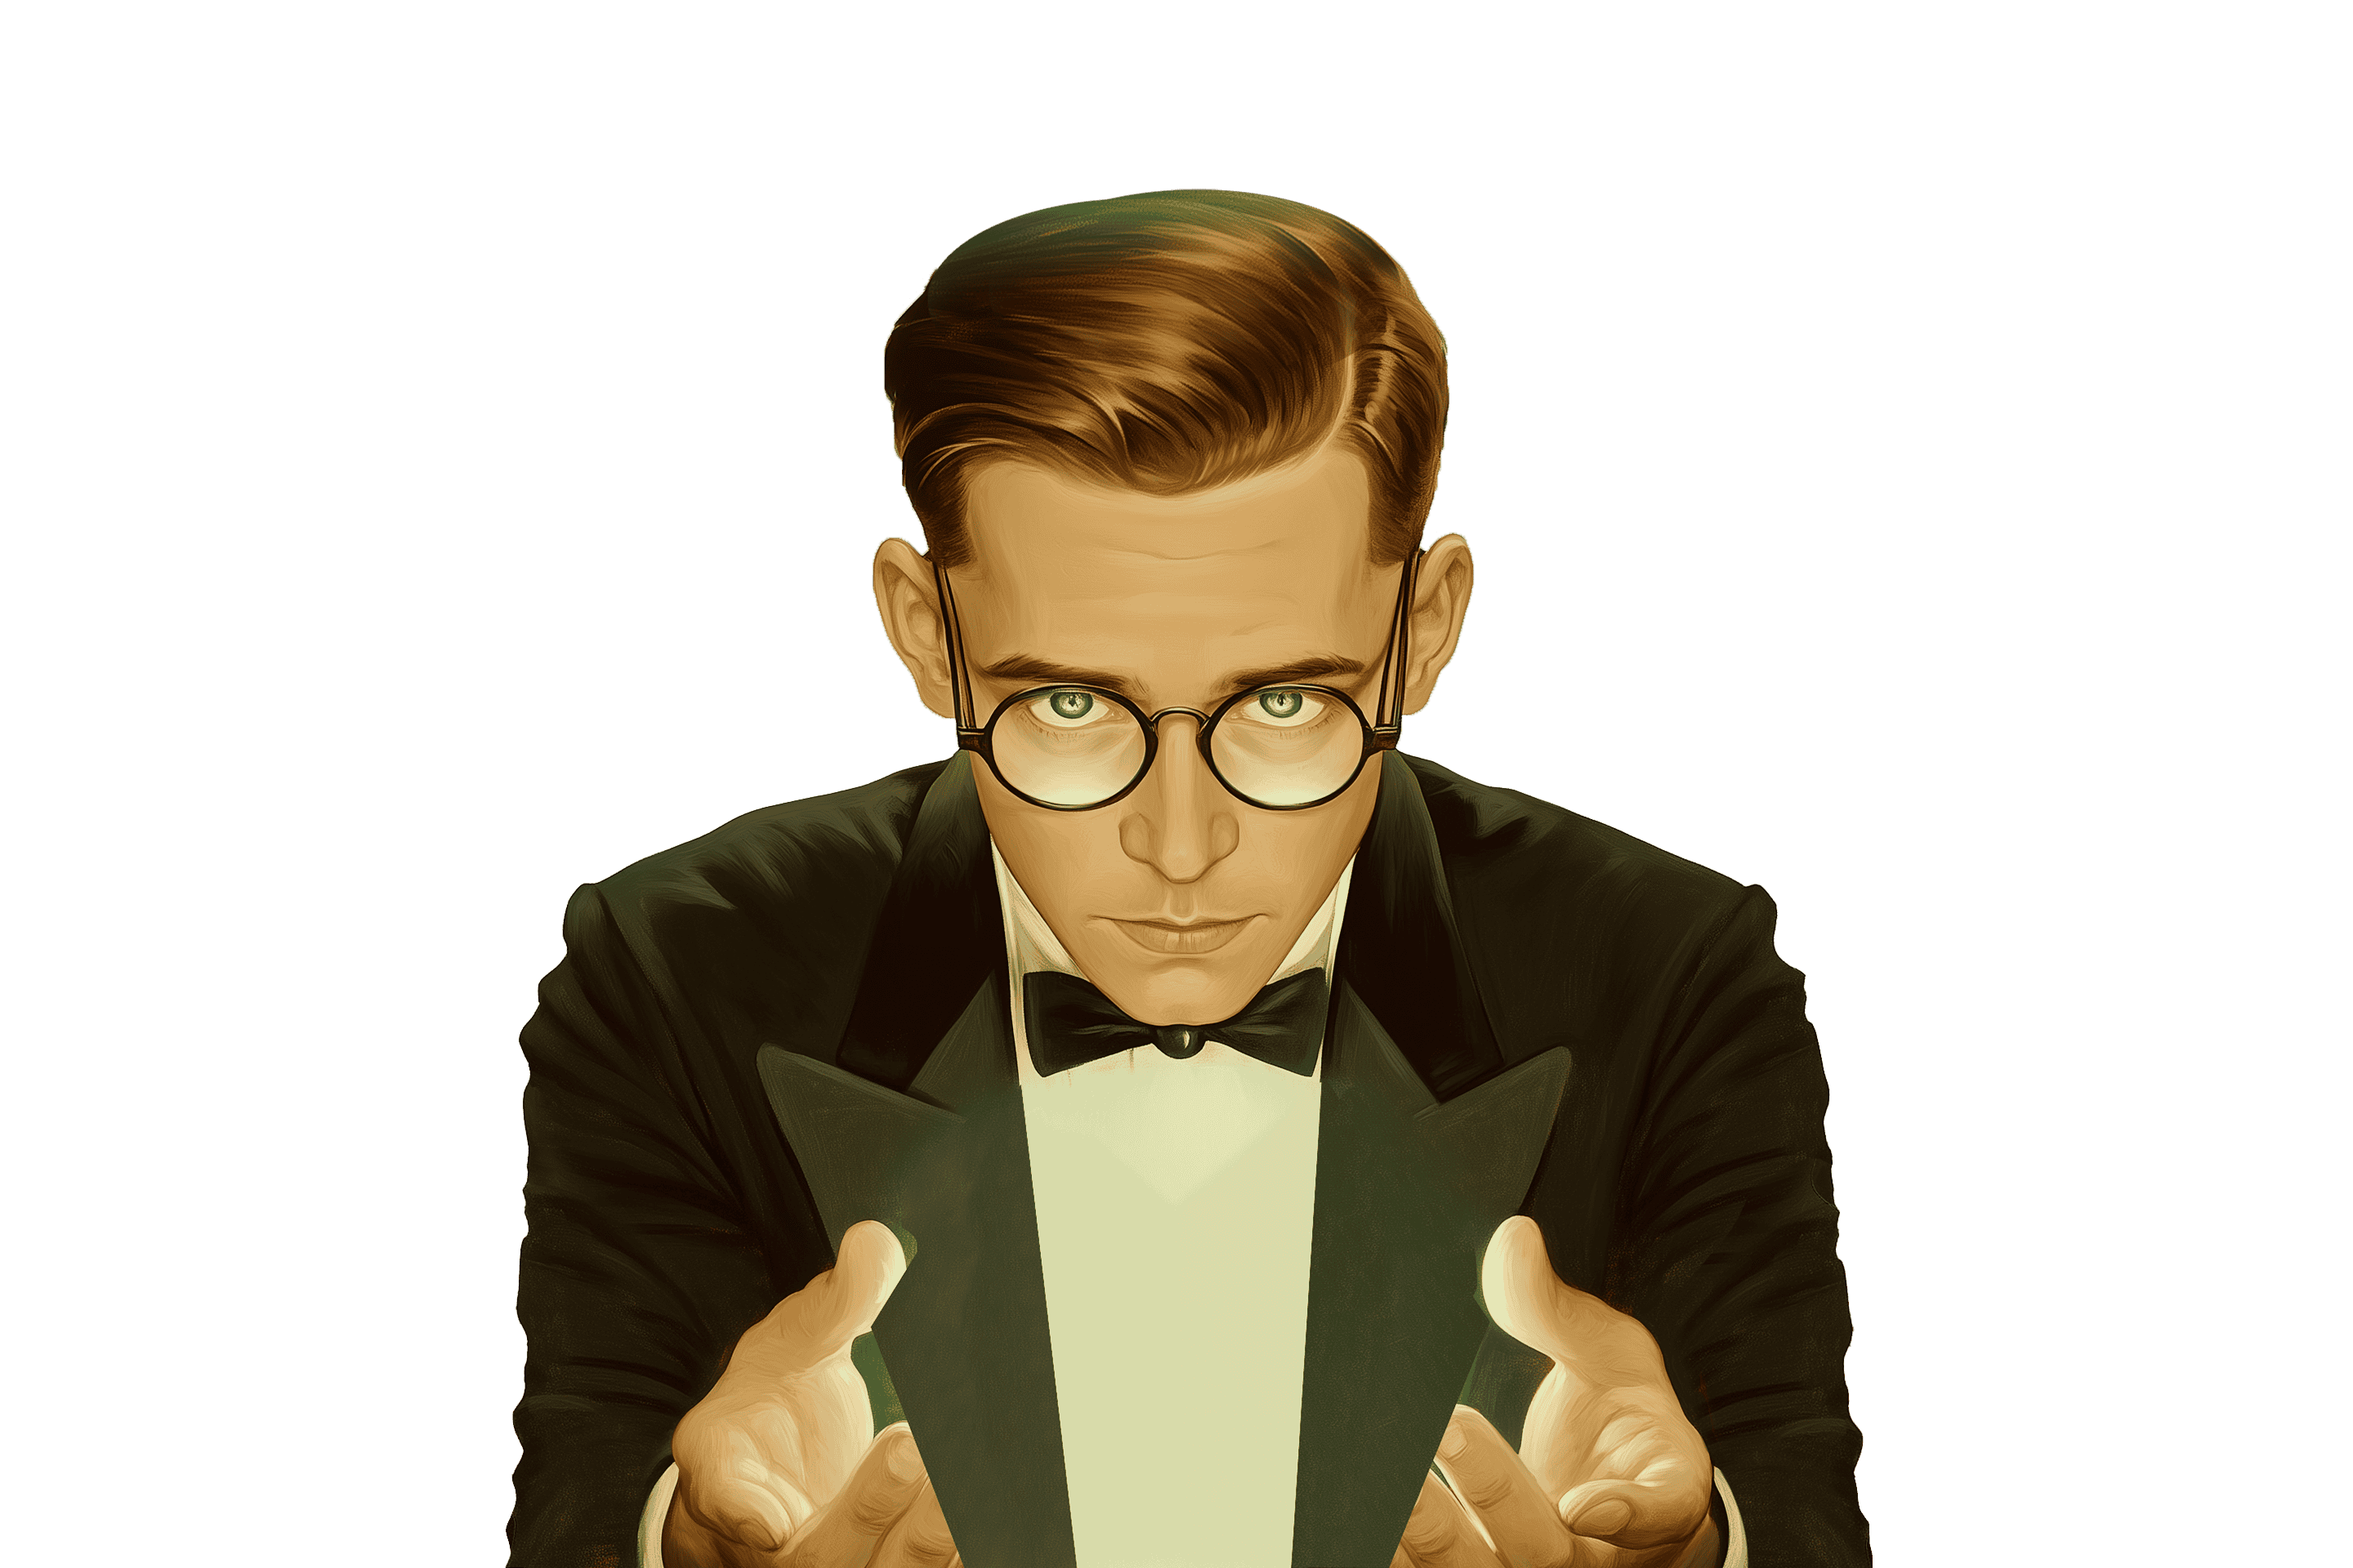
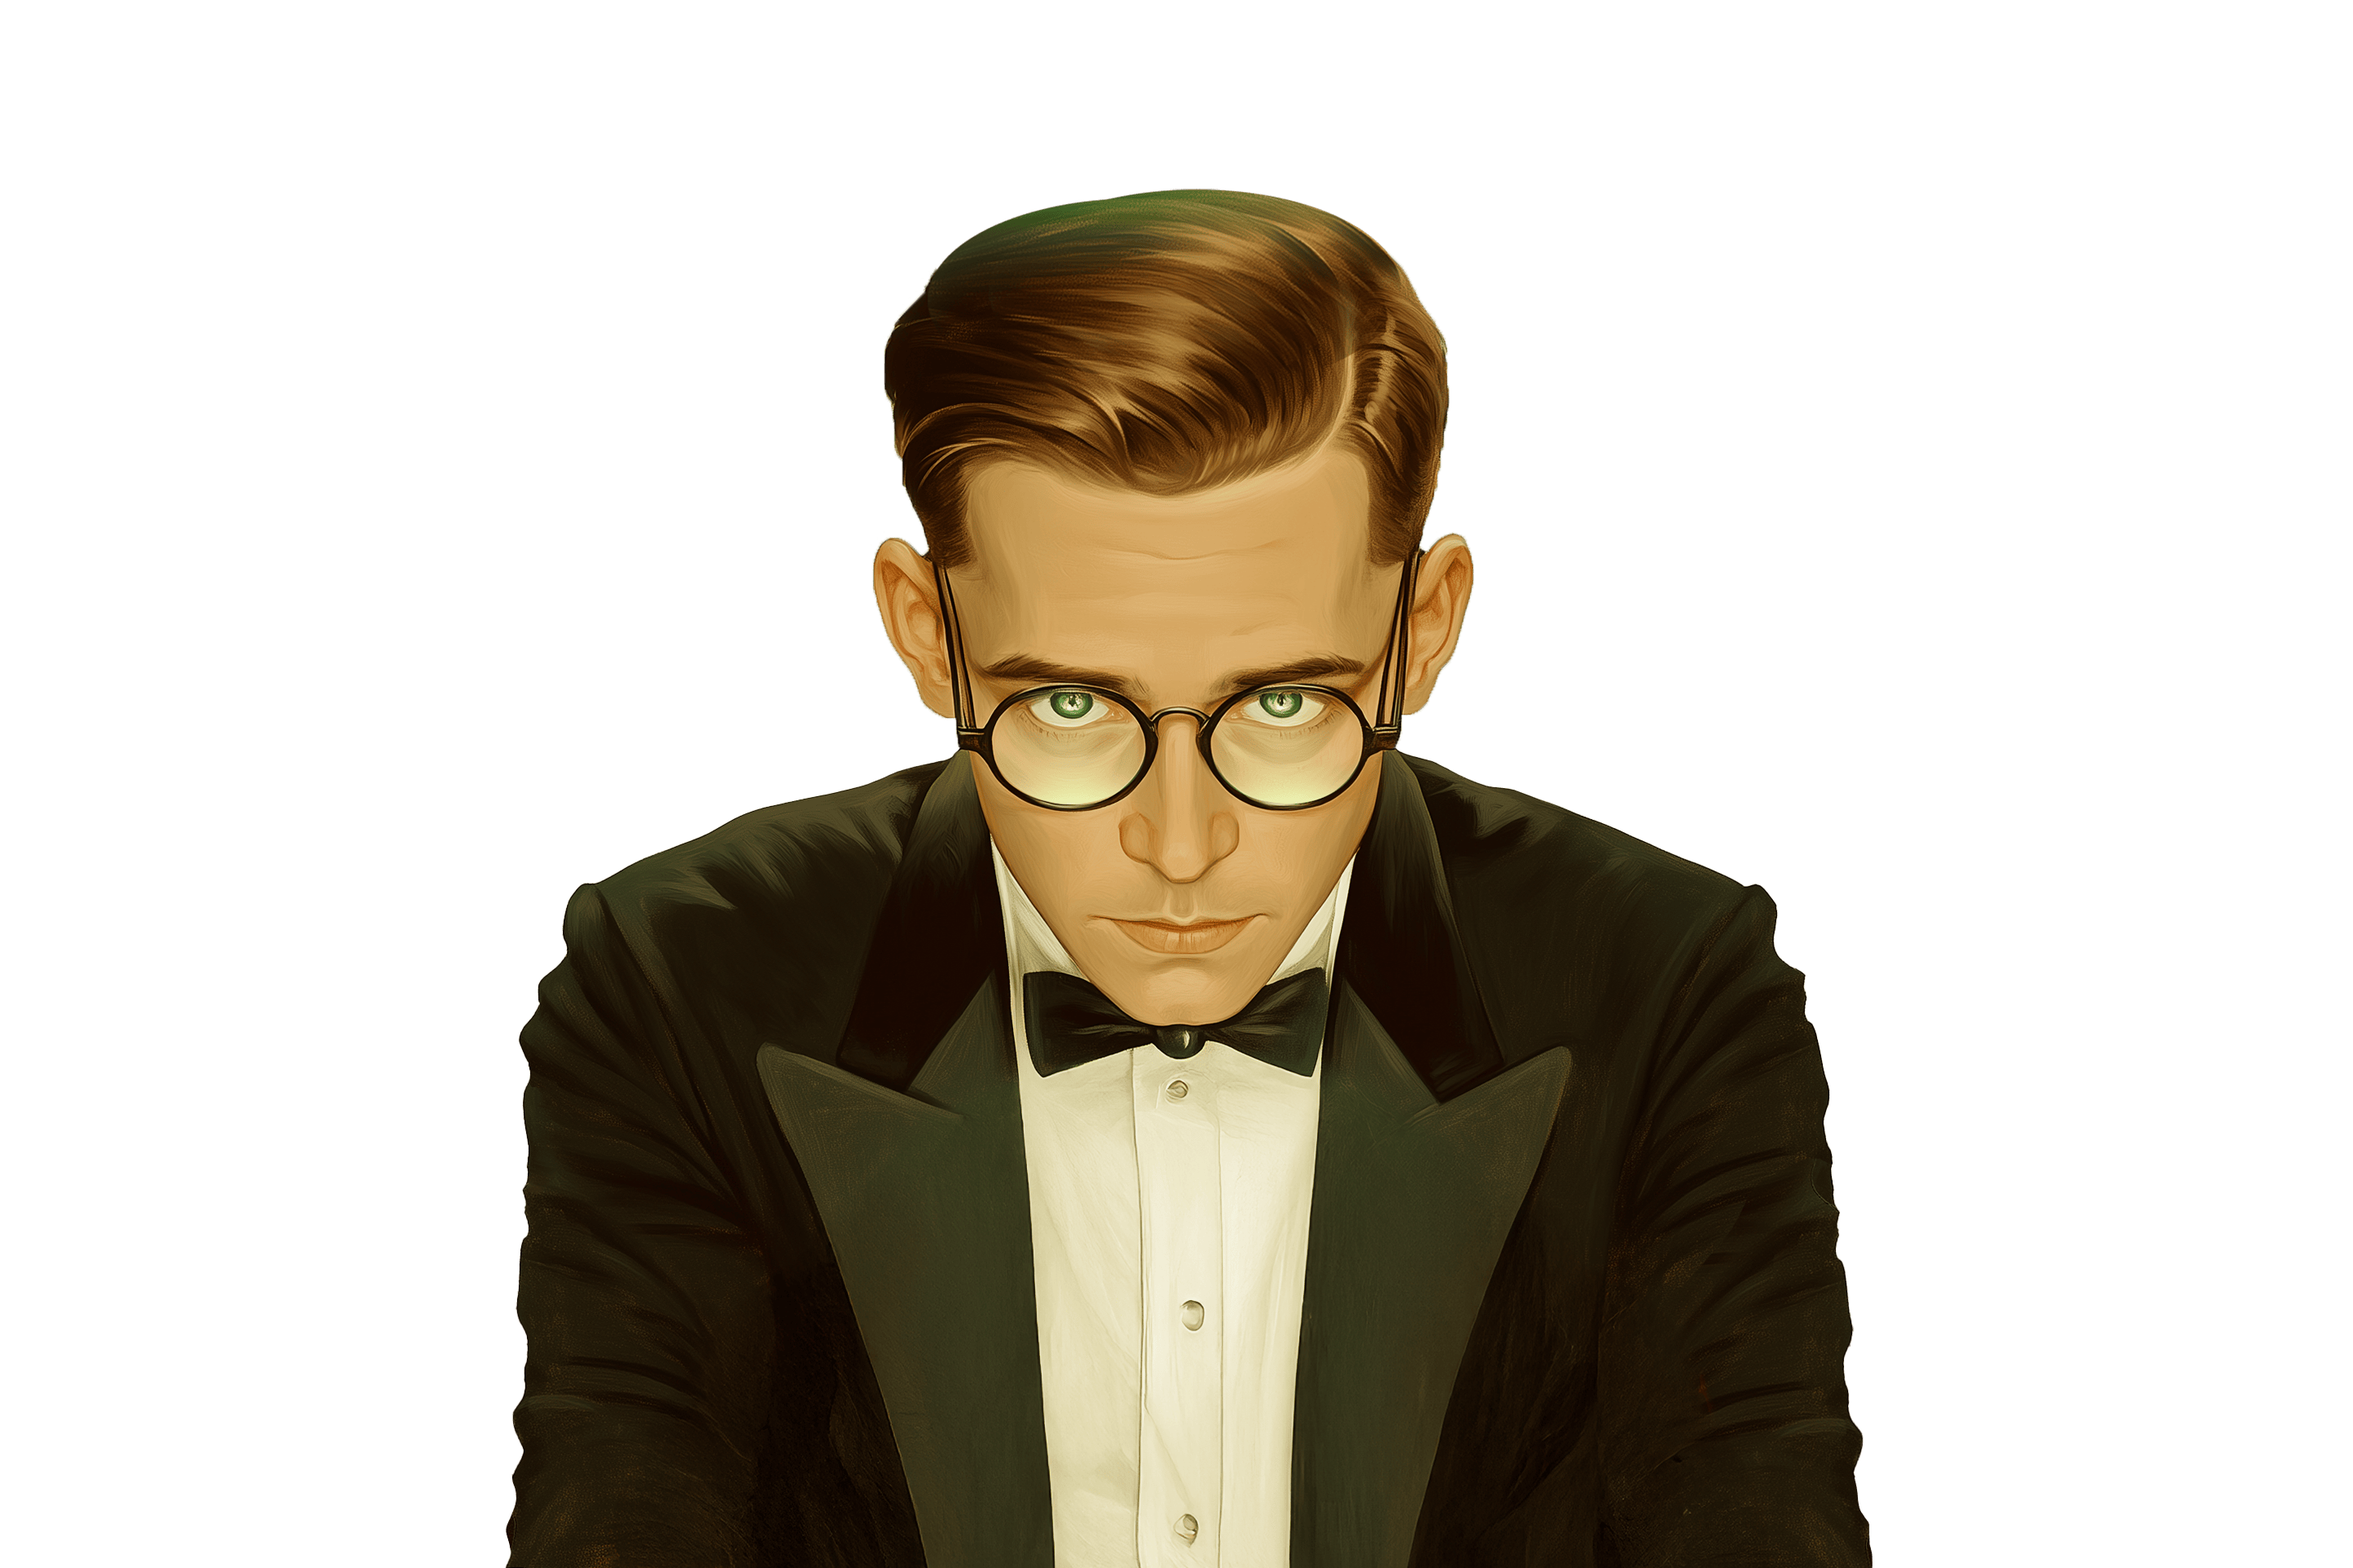
Added Hypnosis and new benzo image

Changed region(s): [[0.25, 0.6875, 0.5625, 1.0], [0.5938, 0.7812, 0.75, 1.0], [0.4688, 0.125, 0.5625, 0.1562]]

diff --git a/src/components/sections/Hero/Benzo/components/Hypnosis.jsx b/src/components/sections/Hero/Benzo/components/Hypnosis.jsx
@@ -1,0 +1,35 @@
+import { useEffect, useRef } from "react";
+import { useBenzo } from "../BenzoProvider";
+
+export default function Hypnosis() {
+  const { allTexturesLoaded, parentSize, animateRotation, textures } =
+    useBenzo();
+
+  const refHypnosis = useRef(null);
+
+  useEffect(() => {
+    if (refHypnosis.current) {
+      animateRotation({
+        duration: 10,
+        ref: refHypnosis,
+        ease: "none",
+        repeat: true,
+      });
+    }
+  }, [animateRotation, textures]);
+
+  if (!allTexturesLoaded || !textures.hypnosis) return null;
+
+  return (
+    <pixiSprite
+      alpha={0.01}
+      anchor={0.5}
+      height={1800}
+      ref={refHypnosis}
+      texture={textures.hypnosis}
+      width={1800}
+      x={parentSize.width / 2}
+      y={parentSize.height / 2}
+    />
+  );
+}

diff --git a/src/components/sections/Hero/Benzo/Benzo.jsx b/src/components/sections/Hero/Benzo/Benzo.jsx
@@ -1,4 +1,3 @@
-// import Background from "./components/Background";
 import BenzoBody from "./components/BenzoBody";
 import CrystalBall from "./components/CrystalBall";
 import GlowBenzo from "./components/GlowBenzo";
@@ -7,12 +6,13 @@ import GlowInner from "./components/GlowInner";
 import GlowOuter from "./components/GlowOuter";
 import HandLeft from "./components/HandLeft";
 import HandRight from "./components/HandRight";
+import Hypnosis from "./components/Hypnosis";
 import Smoke from "./components/Smoke";
 
 export default function Benzo({ parentRef }) {
   return (
     <pixiContainer resizeTo={parentRef}>
-      {/* <Background /> */}
+      <Hypnosis />
       <Smoke />
       <GlowOuter />
       <BenzoBody />

diff --git a/src/components/sections/Hero/Benzo/BenzoProvider.jsx b/src/components/sections/Hero/Benzo/BenzoProvider.jsx
@@ -28,15 +28,13 @@ import {
   glowOuter,
   handLeft,
   handRight,
+  hypnosis,
   smokeParticle,
 } from "./images";
 
 const BenzoContext = createContext();
 
 export const BenzoProvider = ({ parentRef }) => {
-  // gsap.registerPlugin(PixiPlugin);
-  // PixiPlugin.registerPIXI(parentRef.current);
-
   const parentSizeRef = useRef({ width: 0, height: 0 });
   const scaleRef = useRef(0.5);
 
@@ -75,6 +73,7 @@ export const BenzoProvider = ({ parentRef }) => {
       glowOuter: glowOuter,
       handLeft: handLeft,
       handRight: handRight,
+      hypnosis: hypnosis,
       smokeParticle: smokeParticle,
     };
   }, []);

diff --git a/src/components/sections/Hero/Benzo/images/index.js b/src/components/sections/Hero/Benzo/images/index.js
@@ -5,9 +5,10 @@ import glowBenzo from "./benzo_new.png";
 import glowGlasses from "./glow_glasses.png";
 import glowInner from "./glow_inner.png";
 import glowOuter from "./glow_outer.png";
-import smokeParticle from "./particle_smoke.png";
 import handLeft from "./hand_left.png";
 import handRight from "./hand_right.png";
+import hypnosis from "./hypnosis.jpg";
+import smokeParticle from "./particle_smoke.png";
 
 export {
   benzoBackground,
@@ -19,5 +20,6 @@ export {
   glowOuter,
   handLeft,
   handRight,
+  hypnosis,
   smokeParticle,
 };

diff --git a/src/components/sections/Hero/Benzo/utils/animateRotation.js b/src/components/sections/Hero/Benzo/utils/animateRotation.js
@@ -3,7 +3,7 @@ import { gsap } from "gsap";
 export const animateRotation = ({
   duration,
   ease = "none",
-  origin,
+  origin = 0.5,
   ref,
   repeat = true,
   rotationAmount = 360,
